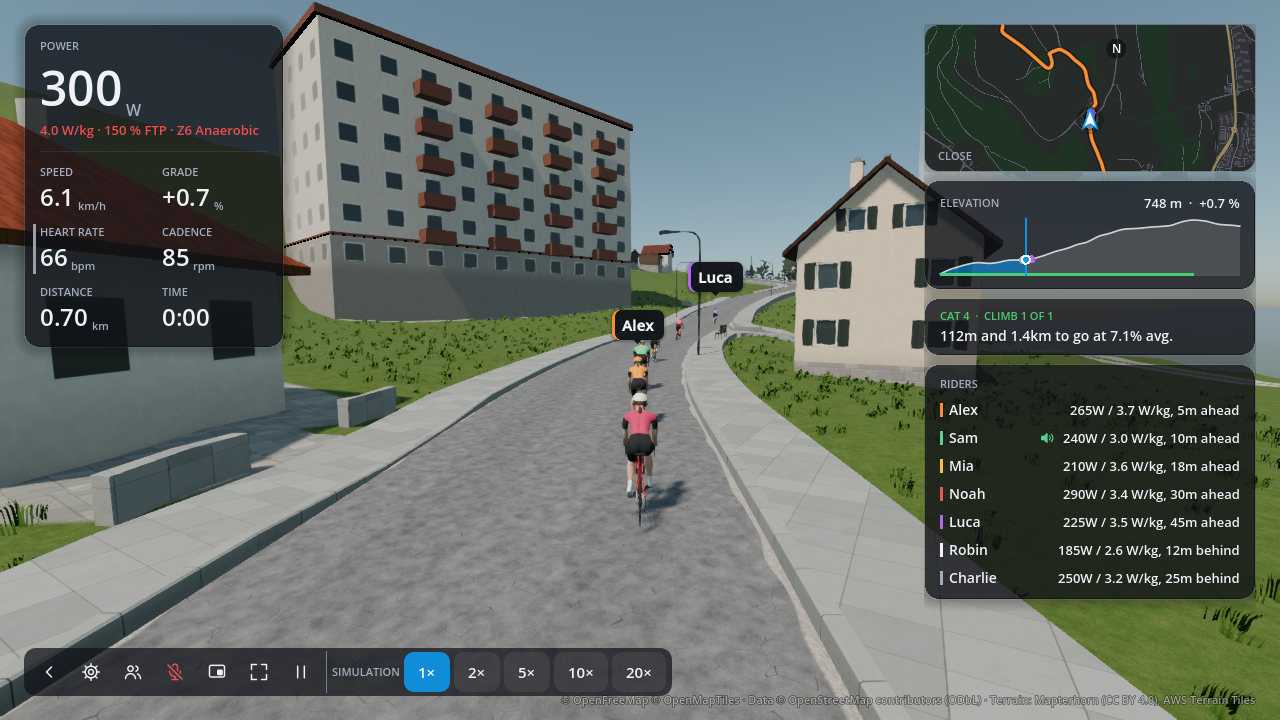
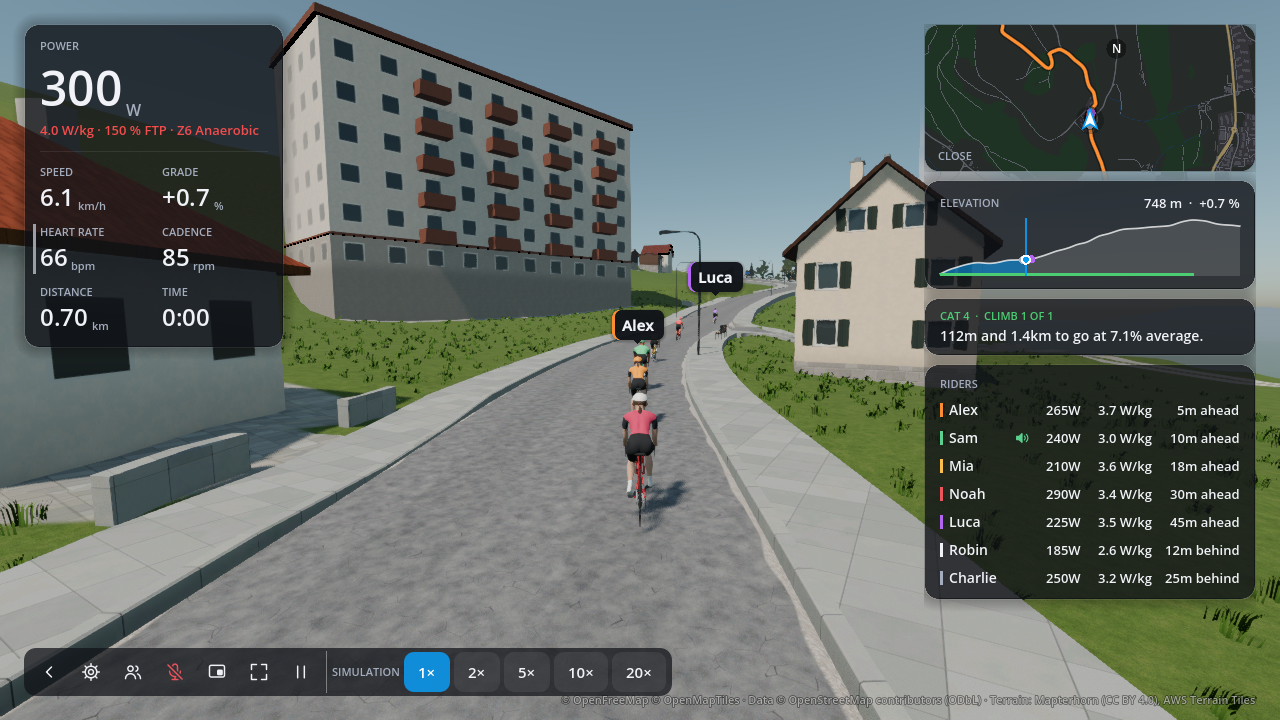
docs: align rider values in ride layout render

diff --git a/docs/ride-layout-review.md b/docs/ride-layout-review.md
@@ -19,10 +19,12 @@ climb below the visible part of the right column. Reaching it requires scrolling
 - Shorten the map and elevation profile, and reduce the gaps between panels.
 - Place the active climb immediately after the full-tour elevation profile.
 - Keep the climb title, followed by one body line in a uniform text size:
-  **112m and 1.4km to go at 7.1% avg.** No arrow, emoji or separate timing line.
+  **112m and 1.4km to go at 7.1% average.** No arrow, emoji or separate timing line.
 - Rename the in-ride group panel to **Riders**, without a rider count, column
-  headings or legend. Each row reads like **Alex · 265W / 3.7 W/kg, 5m ahead**,
-  keeping **ahead** or **behind** on every gap, identity colors and speaking icons.
+  headings or legend. Align names, watts, W/kg and gaps in columns, separated only
+  by space: `Alex  265W  3.7 W/kg  5m ahead`. Keep **ahead** or **behind** on every
+  gap, identity colors and speaking icons. There are no comma or slash separators;
+  the unit **W/kg** retains its standard spelling.
 - Show all seven other riders and the climb together without scrolling.
 
 The new **112m** ascent value is illustrative presentation data. The

diff --git a/docs/PLAN.md b/docs/PLAN.md
@@ -369,8 +369,8 @@ Built in rideable steps:
   ([review images](ride-layout-review.md)); retain the existing theme and controls.
 - [ ] Review the [1280 × 720 ride layout prototype](ride-layout-review.md), then implement
   the compact map/profile, climb before Riders, remaining climb ascent and simple rider
-  rows with effort and ahead/behind gaps, without scrolling; validate solo/group, workout
-  and translated layouts.
+  rows with aligned effort and ahead/behind gaps, without scrolling; validate solo/group,
+  workout and translated layouts.
 - [x] Start page with top tabs (Courses, History, Profile, Devices); ride view separated
 - [x] Path card: route in `#2EB0FF` on black (elevation profile on the course page only); since
   #192 on the course's own map, drawn when the course is prepared and kept in the `.oqc`; since
